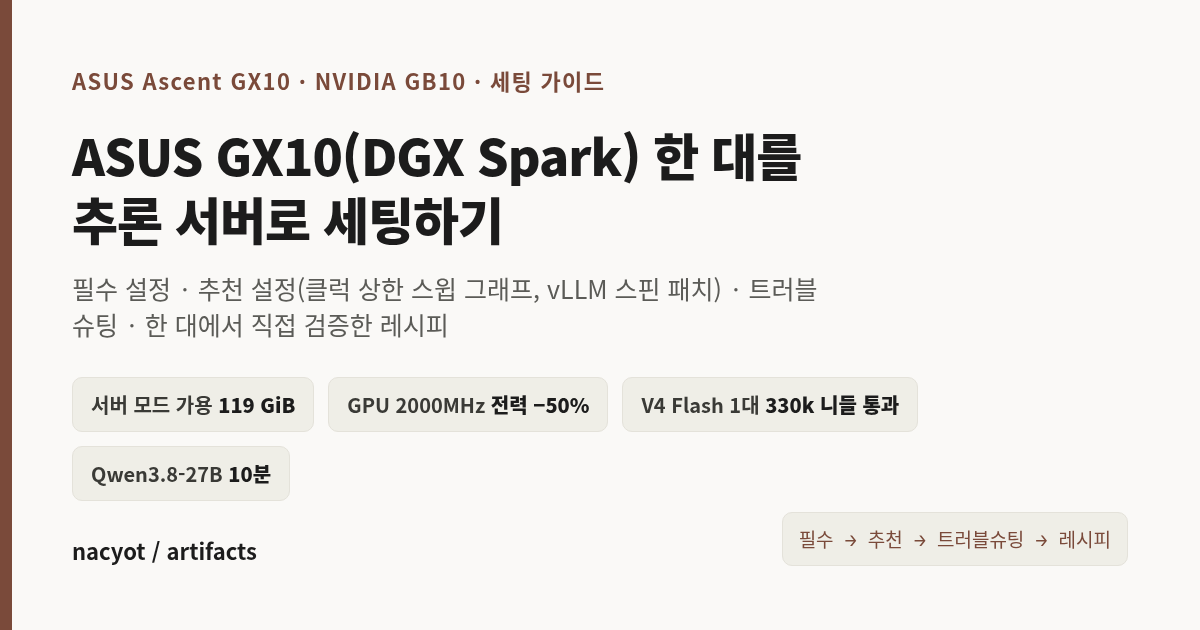
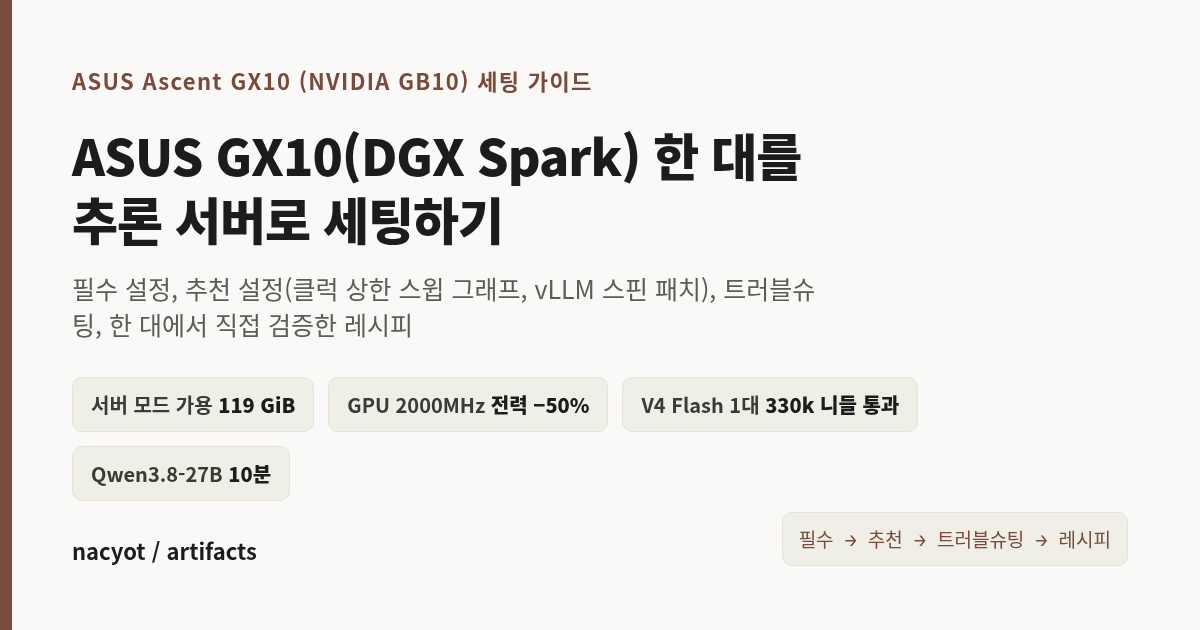
GX10 셋업 글: em dash와 가운데 점 전부 제거(쉼표, 마침표, 괄호, 슬래시로)

Changed region(s): [[0.0617, 0.4222, 0.6783, 0.5429], [0.2467, 0.0905, 0.4933, 0.1508]]

diff --git a/index.html b/index.html
@@ -63,7 +63,7 @@
 
 <a class="item" href="./dgx-spark-node-setup/">
   <img class="thumb" src="./dgx-spark-node-setup/og.png" alt="" loading="lazy" width="1200" height="630">
-  <div class="body">  <h2>ASUS Ascent GX10(DGX Spark) 한 대를 추론 서버로 세팅하기 — 필수 설정, 추천 설정, 트러블슈팅, 바로 돌려볼 레시피</h2>
+  <div class="body">  <h2>ASUS Ascent GX10(DGX Spark) 한 대를 추론 서버로 세팅하기: 필수 설정, 추천 설정, 트러블슈팅, 바로 돌려볼 레시피</h2>
   <p>ASUS Ascent GX10(GB10) 공장 상태에서 추론 서버까지. 필수: 플랫폼 패키지를 지키며 서버 모드 전환, 드라이버 595, PD 펌웨어, 보안 기본값. 추천: GPU 클럭 상한(스윕 실측 그래프), CPU 성능코어 상한, vLLM 스핀 패치. 트러블슈팅과 한 대에서 직접 검증한 레시피(ollama Qwen3.8-27B, DeepSeek V4 Flash EXL3)까지.</p>
   <div class="meta">
     <span class="tag">실측</span>

diff --git a/dgx-spark-node-setup/og.html b/dgx-spark-node-setup/og.html
@@ -17,9 +17,9 @@
 </style></head><body>
 <div class="bar"></div>
 <div class="wrap">
-  <div class="kicker">ASUS Ascent GX10 · NVIDIA GB10 · 세팅 가이드</div>
+  <div class="kicker">ASUS Ascent GX10 (NVIDIA GB10) 세팅 가이드</div>
   <h1>ASUS GX10(DGX Spark) 한 대를<br>추론 서버로 세팅하기</h1>
-  <div class="sub">필수 설정 · 추천 설정(클럭 상한 스윕 그래프, vLLM 스핀 패치) · 트러블슈팅 · 한 대에서 직접 검증한 레시피</div>
+  <div class="sub">필수 설정, 추천 설정(클럭 상한 스윕 그래프, vLLM 스핀 패치), 트러블슈팅, 한 대에서 직접 검증한 레시피</div>
   <div class="stats">
     <div class="chip">서버 모드 가용 <b>119 GiB</b></div>
     <div class="chip">GPU 2000MHz <b>전력 −50%</b></div>

diff --git a/README.md b/README.md
@@ -11,7 +11,7 @@
 
 | 날짜 | 산출물 | 설명 |
 |---|---|---|
-| 2026-08-22 | [dgx-spark-node-setup](./dgx-spark-node-setup/) | ASUS Ascent GX10(DGX Spark) 한 대를 추론 서버로: 필수(서버모드·드라이버 595·PD FW·보안) / 추천(GPU·CPU 클럭 상한 스윕 그래프, vLLM 스핀 패치) / 트러블슈팅 / 직접 검증한 레시피(ollama Qwen3.8-27B, DS4F EXL3) |
+| 2026-08-22 | [dgx-spark-node-setup](./dgx-spark-node-setup/) | ASUS Ascent GX10(DGX Spark) 한 대를 추론 서버로: 필수(서버 모드, 드라이버 595, PD FW, 보안) / 추천(GPU와 CPU 클럭 상한 스윕 그래프, vLLM 스핀 패치) / 트러블슈팅 / 직접 검증한 레시피(ollama Qwen3.8-27B, DeepSeek V4 Flash EXL3) |
 | 2026-08-11 | [deepseek-v4-flash-2x-dgx-spark](./deepseek-v4-flash-2x-dgx-spark/) | DGX Spark 2노드에 DeepSeek V4 Flash 0731 원본 FP8(166.9GB)을 vLLM TP=2로 서빙한 실측: 컨텍스트·클럭 무관한 디코드, 전성비 최적점, 95케이스 벤치 |
 | 2026-08-10 | [10gbe-transfer-bottlenecks](./10gbe-transfer-bottlenecks/) | 디스크는 800MB/s인데 rsync는 230: 사라진 70%를 ssh 암호화·직렬 처리·커널 소켓 버퍼·readahead 힌트로 분해 (단독 A/B 검증) |
 | 2026-08-10 | [gb10-gpu-clock-cap](./gb10-gpu-clock-cap/) | GB10 전력 상한: -pl 없음, nvidia-smi -lgc 클럭 캡으로 70W→40W 실측 + systemd 영속 + PD 고착 버그 구분 |
